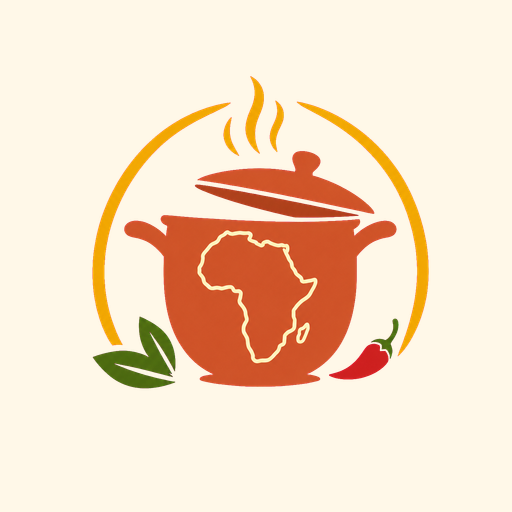
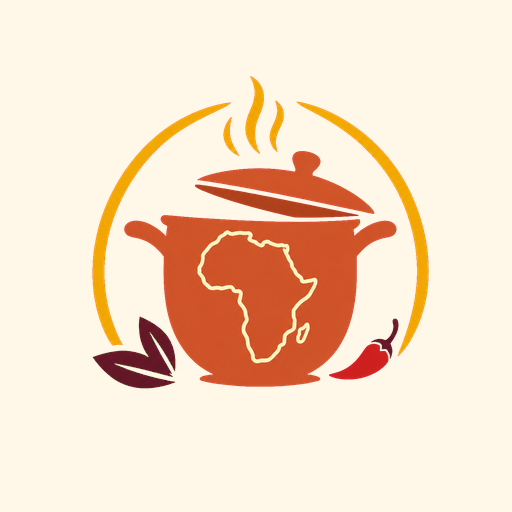
Remove green from brand assets

Changed region(s): [[0.1875, 0.625, 0.3438, 0.7812], [0.7188, 0.625, 0.7812, 0.6875]]

diff --git a/src/components/storefront/Footer.tsx b/src/components/storefront/Footer.tsx
@@ -40,7 +40,7 @@ export function Footer() {
         {/* about */}
         <div className="space-y-3">
           <div className="flex items-center gap-3">
-            <Image src="/logo-jma.png" alt="Je mange Africain" width={120} height={120} className="h-16 w-16 object-contain" />
+            <Image src="/brand/logo-mark.png" alt="Je mange Africain" width={120} height={120} className="h-16 w-16 object-contain" />
             <div>
               <p className="text-base font-extrabold text-cream">Je mange Africain</p>
               <p className="text-xs font-semibold uppercase tracking-wide text-gold">Épicerie mobile</p>
